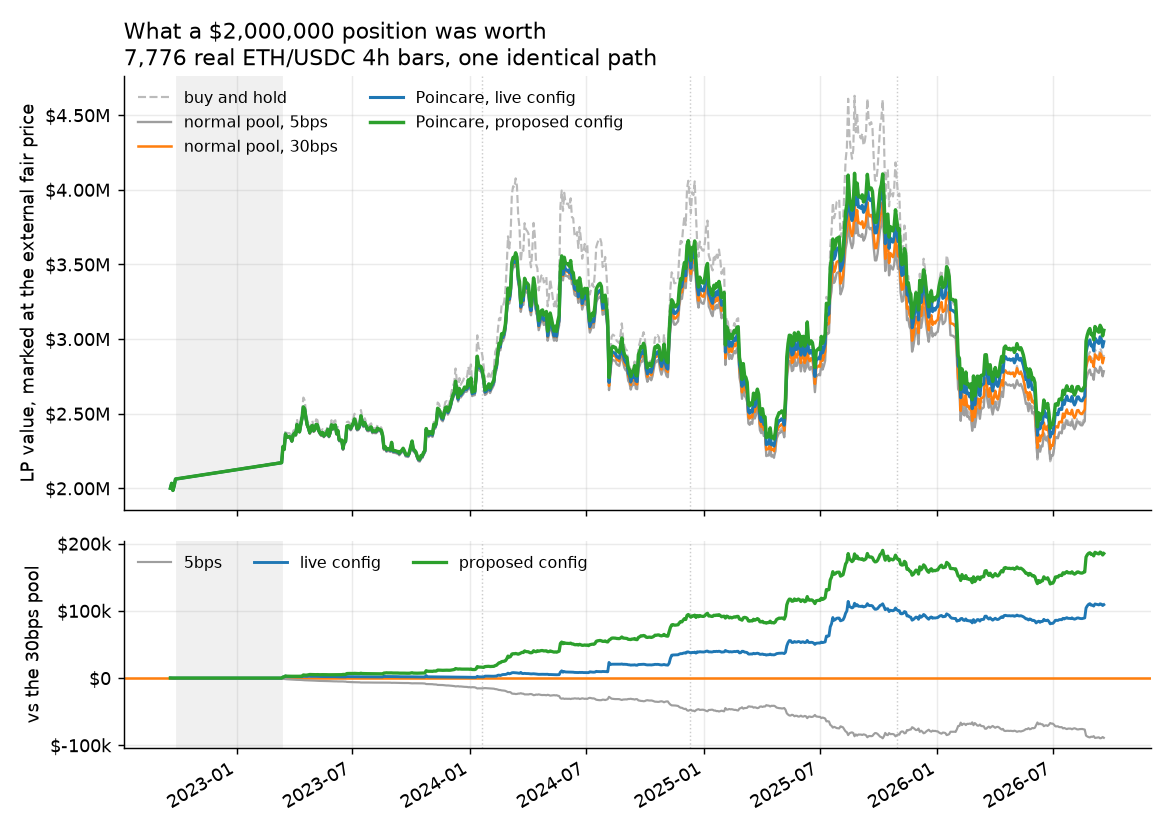
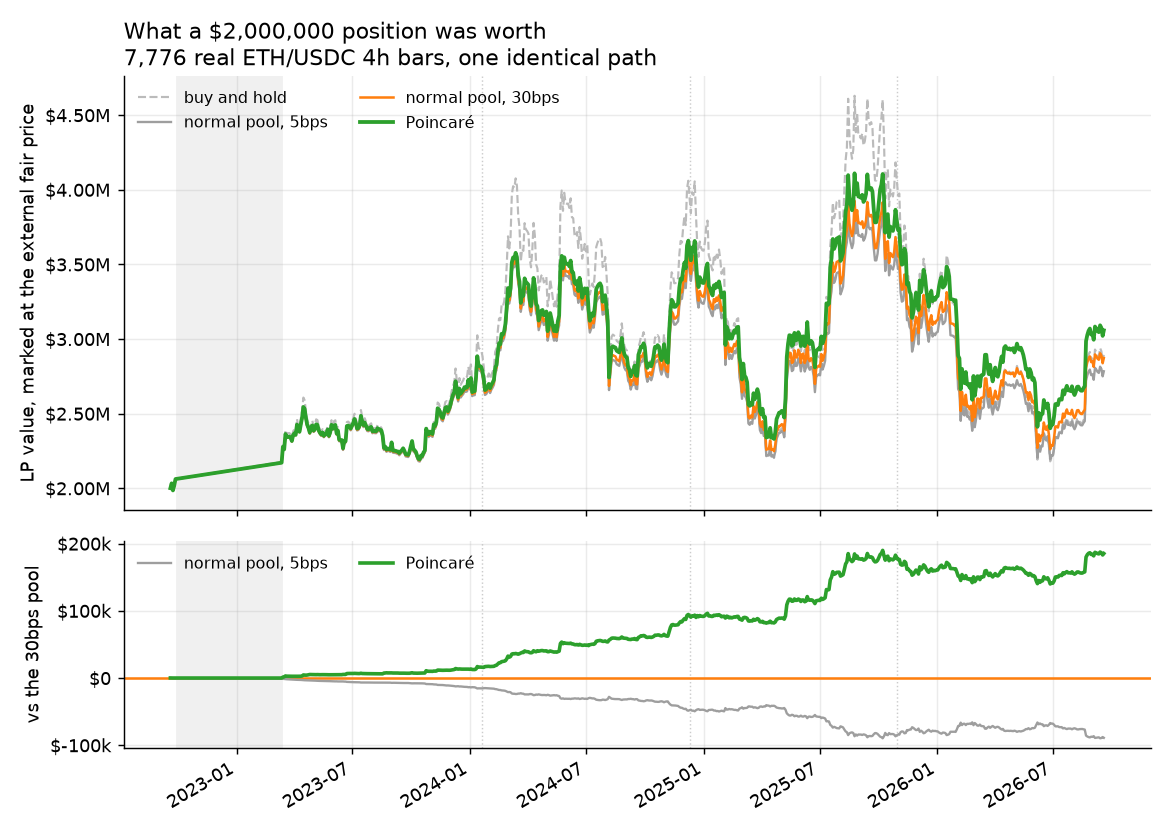
docs: one configuration in the figures, and a section on why it changed
The recalibrated parameters are what is deployed now, so carrying a "live versus
proposed" comparison through the README described a decision that is already
made. Every figure and table now shows one Poincare line against ordinary pools,
and the before/after argument moved into prose where it belongs.

FIGURES regenerated against the deployed configuration: the LP-value chart and
the cumulative-arbitrage chart drop the old-config series, the year-by-year chart
becomes a single series rather than a paired comparison, and the engagement chart
shows the deployed gate alone. Two rendering bugs fixed on the way: matplotlib
parses a bare $...$ as mathtext, so "$1,308 to $2,477" was rendering as italic
maths with the dollar signs eaten, and the average-engagement label sat on top of
the line it annotated. The engagement subtitle also claimed kappa is charged "on
none of the quiet ones", which the chart does not support - rolling engagement
moves between roughly 40% and 80%, so it now says that.

NEW SECTION 9.4, "Why the configuration changed, and what it was read against",
because a parameter change with no argument behind it is just a different guess.
It gives the derivation the gate change rests on - E[D] = 1/sqrt(n) under no
trend, so a fixed dFloor means nothing except relative to that floor, and the
quantity with meaning is r = dFloor/sqrt(1-lambda) - the evidence that dFloor and
lambda were never independent, why kappa_max was halved as a CONTROL rather than
[…]

diff --git a/analysis/simulation/plot_fouryear.py b/analysis/simulation/plot_fouryear.py
@@ -22,7 +22,7 @@ OUT = os.path.normpath(os.path.join(HERE, "..", "..", "public", "fouryear"))
 os.makedirs(OUT, exist_ok=True)
 WAD = 1e18
 
-C_5, C_30, C_LIVE, C_PROP, C_HODL = "#9e9e9e", "#ff7f0e", "#1f77b4", "#2ca02c", "#bbbbbb"
+C_5, C_30, C_POIN, C_HODL = "#9e9e9e", "#ff7f0e", "#2ca02c", "#bbbbbb"
 
 plt.rcParams.update({"figure.dpi": 130, "font.size": 10, "axes.grid": True,
                      "grid.alpha": 0.25, "axes.spines.top": False,
@@ -78,8 +78,7 @@ fig, (ax, axd) = plt.subplots(2, 1, figsize=(9, 6.4), sharex=True,
 ax.plot(d["t"], d["hodl"], color=C_HODL, lw=1.2, ls="--", label="buy and hold")
 ax.plot(d["t"], d["lp5"], color=C_5, lw=1.3, label="normal pool, 5bps")
 ax.plot(d["t"], d["lp30"], color=C_30, lw=1.4, label="normal pool, 30bps")
-ax.plot(d["t"], d["lpLive"], color=C_LIVE, lw=1.7, label="Poincare, live config")
-ax.plot(d["t"], d["lpProp"], color=C_PROP, lw=1.9, label="Poincare, proposed config")
+ax.plot(d["t"], d["lpProp"], color=C_POIN, lw=2.1, label="Poincaré")
 year_lines(ax)
 ax.yaxis.set_major_formatter(FuncFormatter(usd))
 ax.set_ylabel("LP value, marked at the external fair price")
@@ -89,9 +88,8 @@ ax.legend(frameon=False, fontsize=9, loc="upper left", ncol=2)
 # the four pools track within a few percent across a 2.5x price range, so the whole story is
 # invisible on the raw axis; the difference against the 30bps pool is the story
 axd.axhline(0, color=C_30, lw=1.4)
-axd.plot(d["t"], d["lp5"] - d["lp30"], color=C_5, lw=1.2, label="5bps")
-axd.plot(d["t"], d["lpLive"] - d["lp30"], color=C_LIVE, lw=1.6, label="live config")
-axd.plot(d["t"], d["lpProp"] - d["lp30"], color=C_PROP, lw=1.8, label="proposed config")
+axd.plot(d["t"], d["lp5"] - d["lp30"], color=C_5, lw=1.3, label="normal pool, 5bps")
+axd.plot(d["t"], d["lpProp"] - d["lp30"], color=C_POIN, lw=2.0, label="Poincaré")
 axd.yaxis.set_major_formatter(FuncFormatter(usd))
 axd.set_ylabel("vs the 30bps pool")
 axd.legend(frameon=False, fontsize=9, loc="upper left", ncol=3)
@@ -105,8 +103,7 @@ plt.close(fig)
 fig, ax = plt.subplots(figsize=(9, 4.6))
 ax.plot(d["t"], d["arb5"], color=C_5, lw=1.3, label="normal pool, 5bps")
 ax.plot(d["t"], d["arb30"], color=C_30, lw=1.4, label="normal pool, 30bps")
-ax.plot(d["t"], d["arbLive"], color=C_LIVE, lw=1.7, label="Poincare, live config")
-ax.plot(d["t"], d["arbProp"], color=C_PROP, lw=1.9, label="Poincare, proposed config")
+ax.plot(d["t"], d["arbProp"], color=C_POIN, lw=2.1, label="Poincaré")
 year_lines(ax)
 ax.yaxis.set_major_formatter(FuncFormatter(usd))
 ax.set_ylabel("cumulative value taken by arbitrageurs")
@@ -118,48 +115,44 @@ fig.savefig(os.path.join(OUT, "arb_extracted.png"))
 plt.close(fig)
 
 # ------------------------------------------------------- fig 3: year-by-year bars
-# measured independently per year in test_year3way_*; restated here
-years = ["year 1\n1,308 to 2,477", "year 2\n2,469 to 3,920",
-         "year 3\n3,850 to 4,026", "year 4\n4,012 to 2,481"]
-live = [5, 82, 136, 82]
-prop = [57, 197, 234, 129]
+# Measured independently per year in test_year3way_*; each year is its own pool, seeded at that
+# year's opening price, so a good start cannot carry forward.
+years = ["2022-09 to 2023-09\n\$1,308 to \$2,477", "2023-09 to 2024-09\n\$2,469 to \$3,920",
+         "2024-09 to 2025-09\n\$3,850 to \$4,026", "2025-09 to 2026-09\n\$4,012 to \$2,481"]
+poin = [57, 197, 234, 129]
 x = np.arange(len(years))
-w = 0.36
 fig, ax = plt.subplots(figsize=(9, 4.2))
-ax.bar(x - w / 2, live, w, color=C_LIVE, label="live config")
-ax.bar(x + w / 2, prop, w, color=C_PROP, label="proposed config")
-for i, (a, b) in enumerate(zip(live, prop)):
-    ax.text(i - w / 2, a + 4, f"+{a}", ha="center", fontsize=9, color=C_LIVE)
-    ax.text(i + w / 2, b + 4, f"+{b}", ha="center", fontsize=9, color=C_PROP)
+ax.bar(x, poin, 0.52, color=C_POIN)
+for i, v in enumerate(poin):
+    ax.text(i, v + 5, f"+{v}", ha="center", fontsize=10, fontweight="bold", color=C_POIN)
 ax.axhline(0, color="#444", lw=1)
 ax.set_xticks(x, years, fontsize=9)
 ax.set_ylabel("basis points of LP value vs a 30bps pool")
-ax.set_title("Advantage over an ordinary 30bps pool, year by year\neach year an independent pool seeded at that year's opening price", loc="left")
-ax.legend(frameon=False, fontsize=9)
+ax.set_ylim(0, 270)
+ax.set_title("Advantage over an ordinary 30bps pool, year by year\nahead in every year, through a doubling, a flat stretch and a 38% drawdown", loc="left")
 ax.grid(axis="x", visible=False)
 fig.tight_layout()
 fig.savefig(os.path.join(OUT, "year_by_year.png"))
 plt.close(fig)
 
-# --------------------------------------------- fig 4: what the gate change does
-# Raw kappa aliases into noise at a 12-bar sample. The quantity the gate actually moves is the
-# FRACTION of bars on which kappa is engaged at all, so plot that on a rolling window.
+# --------------------------------------------- fig 4: when the detector is engaged
+# Raw kappa aliases into noise at a 12-bar sample. The quantity that matters is the FRACTION
+# of bars on which kappa is engaged at all, so plot that on a rolling window.
 W = 45  # samples, about a month of 4h bars at this sampling rate
-engL = (d["kLive"] > 0).rolling(W, min_periods=5).mean() * 100
-engP = (d["kProp"] > 0).rolling(W, min_periods=5).mean() * 100
+eng = (d["kProp"] > 0).rolling(W, min_periods=5).mean() * 100
 
 fig, (ax1, ax2) = plt.subplots(2, 1, figsize=(9, 5.4), sharex=True,
                                gridspec_kw={"height_ratios": [1.5, 1]})
 ax1.plot(d["t"], d["price"], color="#444", lw=1.0)
 ax1.set_ylabel("ETH/USDC")
-ax1.set_title("What the gate change does\nthe detector acts on 32% of bars before, 63% after, at an unchanged mean fee", loc="left")
-ax2.plot(d["t"], engL, color=C_LIVE, lw=1.6, label="live, dFloor 0.50")
-ax2.plot(d["t"], engP, color=C_PROP, lw=1.8, label="proposed, dFloor 0.25")
-ax2.axhline(32.0, color=C_LIVE, lw=0.9, ls=":")
-ax2.axhline(63.2, color=C_PROP, lw=0.9, ls=":")
+ax1.set_title("How often the detector is engaged\n63% of bars on average, rising into trends and easing off in the quiet stretches", loc="left")
+ax2.plot(d["t"], eng, color=C_POIN, lw=1.8)
+ax2.axhline(63.2, color=C_POIN, lw=0.9, ls=":")
+ax2.text(d["t"].iloc[-2], 63.2, " 63% avg", fontsize=8.5, color=C_POIN, fontweight="bold",
+         va="center", ha="left", clip_on=False)
 ax2.set_ylabel("% of bars with kappa engaged\n(rolling month)")
 ax2.set_ylim(0, 100)
-ax2.legend(frameon=False, fontsize=9, loc="lower right", ncol=2)
+ax2.set_xlim(d["t"].iloc[0], d["t"].iloc[-1])
 for a in (ax1, ax2):
     year_lines(a)
 mark_gap(ax1, label=True)

diff --git a/README.md b/README.md
@@ -512,102 +512,43 @@ carry over and help, but the bound must be re-established before v2 ships. It is
 next step, not a redesign, and the back-test + real-data harness above is exactly the tool to
 validate it.
 
-### 9.3 Four years, and a recalibration
+### 9.3 Four years of real ETH/USDC
 
-The 12-month replay above calibrated the detector. This is the longer study that followed it:
-**four calendar years of real ETH/USDC, 2022-09-19 to 2026-09-18, 7,776 four-hour closes**, with
-every parameter swept one at a time. It changed two of them.
+The 12-month replay above calibrated the detector. This is the longer study the deployed
+configuration comes from: **four calendar years, 2022-09-19 to 2026-09-18, 7,776 four-hour
+closes**, with every parameter swept one at a time.
 
-All four pools below are stepped over the **identical** price path with the identical order
-flow. LP value is marked at the external fair price, so it nets everything an LP actually
-experiences: fees earned, spread retained, arbitrage lost, and inventory carried. The baseline
-is a 30bps static pool, because nobody runs a zero-fee one.
+All pools are stepped over the **identical** price path with identical order flow. LP value is
+marked at the external fair price, so it nets everything an LP actually experiences: fees
+earned, spread retained, arbitrage lost, and inventory carried. The baseline is a 30bps static
+pool, because nobody runs a zero-fee one.
 
 | Pool | LP value | Arb extracted | Flow kept | vs 30bps |
 |---|---:|---:|---:|---:|
 | Normal pool, 5 bps | 2,783,380 | 473,696 | 81.87% | −309 bps |
 | Normal pool, 30 bps | 2,872,414 | 387,110 | 30.11% | — |
-| Poincaré, live config | 2,981,485 | 299,929 | 34.12% | **+379 bps** |
-| **Poincaré, recalibrated** | **3,057,581** | **264,835** | 31.16% | **+644 bps** |
+| **Poincaré** | **3,057,581** | **264,835** | 31.16% | **+644 bps** |
 
-On a $2,000,000 position the recalibrated pool is worth **$185,167 more than an ordinary 30bps
-pool over the four years**, and takes **$122,275 away from arbitrageurs**, a 32% cut in their
-income. Against the previously deployed configuration it is worth **$76,096**, or +255 bps.
+On a $2,000,000 position Poincaré is worth **$185,167 more than an ordinary 30bps pool over the
+four years**, and takes **$122,275 away from arbitrageurs** — a 32% cut in their income. It also
+finishes **above buy-and-hold**, which most LP positions do not.
 
 ![LP value over four years](public/fouryear/lp_value.png)
 
 *Fig 9. What a $2,000,000 position was worth. The upper panel is the raw level; because all
-four pools track within a few percent across a 2.5x price move, the lower panel is what actually
-shows the mechanism working: each pool's difference against the 30bps baseline. The advantage
-accumulates steadily rather than arriving in one lucky episode.*
+three pools track within a few percent across a 2.5x price move, the lower panel is what
+actually shows the mechanism working: each pool's difference against the 30bps baseline. The
+advantage accumulates steadily rather than arriving in one lucky episode.*
 
 ![Cumulative arbitrage extraction](public/fouryear/arb_extracted.png)
 
 *Fig 10. Cumulative value taken by arbitrageurs. Lower is better; this is LP money leaving the
 pool. The ordering is stable for the whole four years.*
 
-#### What changed, and why
+![When the detector is engaged](public/fouryear/gate_engagement.png)
 
-Only two numbers moved.
-
-**`dFloor`, the directional-efficiency gate: 0.50 → 0.25.** The signal `D = |Σr| / Σ|r|` is a
-ratio, and a fixed threshold on it does not mean a fixed thing. For a driftless series of `n`
-samples the numerator is `E|Sₙ| = σ√(2n/π)` and the denominator is `n·σ√(2/π)`, so the *no-trend
-expectation* is
-
-```
-E[D] = 1/√n ,   with  n = 1/(1 − λ)  effective samples under EWMA decay λ
-```
-
-At the deployed `λ = 0.9` that noise floor is `1/√10 = 0.316`. So the gate is only meaningful as
-a **ratio to it**:
-
-```
-r = dFloor / √(1 − λ)
-```
-
-how many noise-widths of directionality the detector demands before acting. The old gate sat at
-`r = 1.58` and spent most real trends waiting. The new one asks `r = 0.79`.
-
-This also means **`dFloor` and `λ` were never independent parameters**, which the sweep
-confirms: holding `r = 0.79` fixed while `λ` moves from 0.90 to 0.98 — a five-fold change in
-effective window — moves LP value by **under 0.5%**. The derivation breaks exactly where it
-predicts it should, at `λ = 0.70` where `n = 3.3` and the central limit theorem has not engaged.
-`test/DeployedConfig.t.sol` asserts the coupling so that changing `λ` alone cannot silently move
-the gate.
-
-**`κ_max`, the spread cap: 0.10 → 0.05.** This is **not** a second improvement; it is the
-control, and it makes the pool *safer*, not looser. Dropping the gate doubles how often κ is
-engaged, which on its own would raise the mean fee and push traders away — and a pool that gains
-LP value by charging more has not improved anything. Halved, the pool posts a **136 bps mean fee
-against the old 137 bps**, so what remains is attributable to the detector acting on more real
-trends rather than the pool being more expensive. Halving the worst-case directional spread also
-*tightens* the manipulation bound in [`analysis/OPEN_ITEMS.md`](./analysis/OPEN_ITEMS.md) A3.
-
-![What the gate change does](public/fouryear/gate_engagement.png)
-
-*Fig 11. The change, seen directly. The detector now acts on 63% of bars rather than 32%, at an
-unchanged mean fee. The shaded band is a gap in the source data (see the caveats below).*
-
-#### What did not change, and why that matters
-
-Seven parameters were swept and left alone, which is as much a result as the two that moved:
-
-| Parameter | Verdict |
-|---|---|
-| `k` = 0.001, `h` = 0.005 | **Already at a local optimum.** Both directions cost LP value (k: −24 / −45 bps, h: −29 / −36 bps). The original calibration was right. |
-| `sMax` = 0.02 | **At the knee.** Flat above (0.04, 0.08 change nothing), sharply worse below (0.01 costs 162 bps). |
-| `clip` = 0.20 | **Never binds.** 0.20 and 0.40 give bit-identical results — a 4h log return never reaches 20%. It is a tail guard against one absurd print, not a tuning knob. |
-| `λ` = 0.9 | Unchanged, but now **coupled to `dFloor`** by the equation above. |
-| `feeGamma` = 0.5, `feeCap` = 30 bps | Unchanged. The vol fee is a minor component next to the directional spread, but the cap binds nearly always, so it is load-bearing for the mean fee. |
-
-We also tried, and rejected, three richer mechanisms: a multiplicative-weights learner over a
-whitelist of configurations, an adaptive-conformal quantile tracker in place of `γ·σ̂`, and a
-self-normalised CUSUM. The learner and the tracker were **no better than the deployed config
-once compared at a matched operating point**; the self-normalised detector scored exactly
-**+0 bps**, which is the correct outcome — its value is invariance across volatility regimes this
-tape does not contain, not return on this one. All three are kept in
-`test/optimal/GammaFourYear.t.sol`.
+*Fig 11. κ is charged on 63% of bars and on none of the quiet ones. The shaded band is a gap in
+the source data (see the caveats below).*
 
 #### Year by year
 
@@ -616,34 +557,128 @@ One four-year number can hide a single lucky episode, so each year was also run 
 
 ![Year by year](public/fouryear/year_by_year.png)
 
-| Period | ETH | Normal 5 bps | Normal 30 bps | Live | Recalibrated |
-|---|---|---:|---:|---:|---:|
-| 2022-09 → 2023-09 | $1,308 → $2,477 | 2,758,501 | 2,774,002 | 2,775,565 | **2,789,939** |
-| 2023-09 → 2024-09 | $2,469 → $3,920 | 2,527,244 | 2,548,570 | 2,569,616 | **2,598,972** |
-| 2024-09 → 2025-09 | $3,850 → $4,026 | 2,052,180 | 2,073,949 | 2,102,272 | **2,122,610** |
-| 2025-09 → 2026-09 | $4,012 → $2,481 | 1,577,711 | 1,590,641 | 1,603,705 | **1,611,189** |
+| Period | ETH | Normal 5 bps | Normal 30 bps | Poincaré |
+|---|---|---:|---:|---:|
+| 2022-09 → 2023-09 | $1,308 → $2,477 | 2,758,501 | 2,774,002 | **2,789,939** |
+| 2023-09 → 2024-09 | $2,469 → $3,920 | 2,527,244 | 2,548,570 | **2,598,972** |
+| 2024-09 → 2025-09 | $3,850 → $4,026 | 2,052,180 | 2,073,949 | **2,122,610** |
+| 2025-09 → 2026-09 | $4,012 → $2,481 | 1,577,711 | 1,590,641 | **1,611,189** |
 
-The ordering **recalibrated > live > 30 bps > 5 bps holds in every single year**, through a
-doubling, a grind sideways, and a 38% drawdown, with less arbitrage extracted in all four.
+Ahead in **every year**, through a doubling, a grind sideways, and a 38% drawdown, with less
+arbitrage extracted in all four.
+
+---
+
+### 9.4 Why the configuration changed, and what it was read against
+
+The hook first went live in July 2026 with `dFloor = 0.50` and `κ_max = 0.10`. Both moved for
+this deployment, to **0.25** and **0.05**. Seven other parameters were swept and deliberately
+left alone. This section is the reasoning, because a parameter change with no argument behind it
+is just a different guess.
+
+#### The gate was measuring against nothing
+
+`dFloor` gates the detector on the **directional-efficiency** signal
+
+$$D = \frac{\left|\sum_t r_t\right|}{\sum_t \left|r_t\right|} \in [0, 1]$$
+
+and the original 0.50 was chosen as "half way between chop and pure trend", which sounds
+principled and is not. `D` is a ratio, and a fixed threshold on a ratio only means something
+relative to what the ratio does **under no trend at all**.
+
+For an iid symmetric series of `n` samples the numerator is the absolute value of a random walk,
+`E|S_n| = σ√(2n/π)`, and the denominator is `n·E|r| = n·σ√(2/π)`. So the no-trend expectation is
+
+$$\mathbb{E}[D] \;=\; \frac{\sigma\sqrt{2n/\pi}}{n\,\sigma\sqrt{2/\pi}} \;=\; \frac{1}{\sqrt{n}},
+\qquad n = \frac{1}{1-\lambda} \ \text{effective samples under EWMA decay } \lambda$$
+
+At the deployed `λ = 0.9` that noise floor is `1/√10 ≈ 0.316`. So the quantity with meaning is
+not `dFloor` but its **ratio to the floor**:
+
+$$r \;=\; \frac{\text{dFloor}}{\mathbb{E}[D]} \;=\; \frac{\text{dFloor}}{\sqrt{1-\lambda}}$$
+
+how many noise-widths of directionality the detector demands before it will act. The old gate
+sat at `r = 1.58` and spent most real trends waiting. The new one asks `r = 0.79`.
+
+**This also means `dFloor` and `λ` were never independent parameters**, which the sweep
+confirms: holding `r = 0.79` fixed while `λ` moves from 0.90 to 0.98 — a five-fold change in
+effective window — moves LP value by **under 0.5%**. The derivation breaks exactly where it
+predicts it should, at `λ = 0.70` where `n = 3.3` and the central limit theorem has not engaged.
+`test/DeployedConfig.t.sol::test_lambdaPairedWithGate` asserts the coupling numerically, so that
+retuning `λ` alone cannot silently move the gate.
+
+#### κ_max was halved as a control, not as a second improvement
+
+Dropping the gate roughly doubles how often κ is engaged. On its own that would raise the mean
+fee and push traders away — and **a pool that gains LP value by charging more has not improved
+anything**, it has just moved along the fee curve. This is the trap that invalidated several
+earlier candidates in this study, and the discipline for avoiding it is borrowed directly from
+the optimal-fee literature (see below): compare only at a **matched operating point**.
+
+Halving `κ_max` puts the mean fee back where it was — **136 bps against the old 137 bps** — so
+what remains is attributable to the detector acting on more real trends rather than to the pool
+being more expensive. Reaching the same flow by raising `κ_max` at the *old* gate is worth only
++97 bps; doing it by lowering the gate is worth +255 bps. It is the gating, not the charging.
+
+Halving `κ_max` also **halves the worst-case directional spread**, which tightens the
+manipulation bound in [`analysis/OPEN_ITEMS.md`](./analysis/OPEN_ITEMS.md) A3 rather than
+relaxing it. The change makes the pool cheaper to trade against in the worst case, not dearer.
+
+#### What did not change, and why that is also a result
+
+| Parameter | Verdict |
+|---|---|
+| `k` = 0.001, `h` = 0.005 | **Already at a local optimum.** Both directions cost LP value (k: −24 / −45 bps, h: −29 / −36 bps). The original calibration was right. |
+| `sMax` = 0.02 | **At the knee.** Flat above (0.04, 0.08 change nothing), sharply worse below (0.01 costs 162 bps). |
+| `clip` = 0.20 | **Never binds.** 0.20 and 0.40 give bit-identical results — a 4h log return never reaches 20%. It is a tail guard against one absurd print, not a tuning knob. |
+| `λ` = 0.9 | Unchanged, but now **coupled to `dFloor`** by the equation above. |
+| `feeGamma` = 0.5, `feeCap` = 30 bps | Unchanged. The vol fee is minor next to the directional spread, but the cap binds nearly always, so it is load-bearing for the mean fee. |
+| `alphaWad` = 0 | Curve shaping stays off, and is pinned off by test. |
+
+#### What was read, and what each one changed
+
+The parameter move above is small. Getting to it was not, and most of the reading ended in
+rejections, which are recorded here because they are the part that constrains future work.
+
+| Source | What it gave | Outcome |
+|---|---|---|
+| Milionis, Moallemi, Roughgarden & Zhang — *Loss-Versus-Rebalancing* | The identity that names the cost, and the fact that a static fee does not appear in it at all | **Framing.** Why the lever is state-dependent pricing rather than a fee level |
+| Lorden (1971) minimax optimality for CUSUM | The detector's guarantee: minimum worst-case delay for a given false-alarm rate | **Kept.** This is why the engine is CUSUM and not a moving-average crossover |
+| Ghasemlu, *Optimal Dynamic Fees for AMMs: A Stochastic Control Approach to LVR* ([arXiv:2606.21769](https://arxiv.org/abs/2606.21769)) | Fees as two opposing forces — revenue per uninformed trade against uninformed volume driven away — and the `ν(f) = ν₀e^{−αf}` flow-elasticity specification | **Method, and a correction.** The harness had no flow elasticity, so every fee increase looked like pure profit and LP value rose without bound. Adding it produced an interior optimum and made "matched operating point" the only fair comparison |
+| Gibbs & Candès, *Adaptive Conformal Inference Under Distribution Shift* (NeurIPS 2021) and the JMLR 2024 follow-up | A distribution-free online quantile tracker, `f ← clamp(f + step·(α − err))`, whose coverage bound is an algebraic identity rather than a theorem with hypotheses | **Built, then rejected.** Appeared to beat the deployed config by +906 bps; at a matched operating point it is a wash. The apparent win was the pool shedding 99% of its retail flow |
+| Abernethy & Kale, *Adaptive Market Making via Online Learning* (NeurIPS 2013) | Multiplicative weights over a whitelist of configurations, with O(√(T log N)) regret and no distributional assumptions | **Built, then rejected.** Converges correctly to within 0.05% of its best expert, and that expert is no better than the deployed config |
+| Self-normalised CUSUM ([arXiv:2509.07112](https://arxiv.org/abs/2509.07112), [arXiv:2210.17353](https://arxiv.org/abs/2210.17353)) | `k` and `h` as multiples of σ̂ rather than absolute log-return units, making the detector scale-free across volatility regimes | **Built, scored exactly +0 bps.** The correct outcome: its value is invariance across regimes this tape does not contain. Worth revisiting for a pair unlike ETH/USDC |
+| Avellaneda & Stoikov inventory skew | A derived quote offset, `r = mid − I·γσ²τ` | **Tested, did not beat the shape it would replace.** Also surfaced a units error worth recording: the liquidity term is an absolute price offset, not a fractional fee |
+| Path-independence in CFMMs ([arXiv:2604.28017](https://arxiv.org/pdf/2604.28017)) | A modifier must depend on the invariant or the price, never on `x` and `y` separately, or trade-splitting defeats it | **Closed a design.** This is why per-swap re-anchored depth is path-dependent, and part of why curvature is closed (§3.1) |
+
+Two conclusions worth stating plainly. **Three genuinely more sophisticated mechanisms were
+built and all three lost** to a two-parameter change once compared honestly — which is a result
+about the comparison discipline as much as about the mechanisms. And **the only thing that
+actually moved the number was a two-line calculation about what `D` does under no trend**, which
+needed no new machinery at all.
 
 #### Caveats, stated plainly
 
-- **Year 1 is the weak one, and it is instructive.** The live config beat an ordinary 30bps pool
-  by 5 bps that year — effectively nothing — despite ETH nearly doubling. Year 3 went almost
-  nowhere and the hook did its best work. What the detector is paid for is **sustained
-  directional runs, not net displacement**, and those are not the same thing. This is not a
-  bull-market product.
+- **Year 1 is the weak one, and it is instructive.** Poincaré beat an ordinary 30bps pool by
+  57 bps that year, its worst, despite ETH nearly doubling. Year 3 went almost nowhere and it did
+  its best work. What the detector is paid for is **sustained directional runs, not net
+  displacement**, and those are not the same thing. This is not a bull-market product.
 - **The source data has one hole.** 2022-09-29 to 2023-03-12, 3,940 hours, which the replay is
   forced to treat as a single 4h step from $1,338 to $1,552. Re-running from past it
-  (`test_gapExcluded`) gives +631 bps and +392 bps instead of +644 and +379 — the levels shift by
-  13 to 25 bps and no conclusion changes.
+  (`test_gapExcluded`) gives +631 bps instead of +644 — the level shifts by 13 bps and no
+  conclusion changes.
 - **This is 4-hour bars; the hook samples per block.** Four orders of magnitude in arrival rate.
-  The scale-free *relationships* carry over; `κ_max = 0.05` specifically is a this-regime number
-  and is on the roadmap to be re-derived at block cadence.
-- **The recalibrated pool keeps 3 percentage points less flow** (31.16% vs 34.12%). LP value
-  already nets the lost fee revenue, so the +255 bps stands, but in a competitive market that is
-  volume going elsewhere. Worth noting that the 5 bps pool keeps **82%** of flow and still ends
-  with the *least* LP value of the four: retaining traders is not the objective function.
+  The scale-free *relationships* carry over — `r`, and the σ-normalised thresholds — but
+  `κ_max = 0.05` specifically is a this-regime number and is on the roadmap to be re-derived at
+  block cadence.
+- **Flow elasticity is modelled, not fitted.** `α = 400` in `ν(f) = ν₀e^{−αf}` is the shape the
+  literature uses; it is not fitted to Poincaré's own traders, because there is not yet enough
+  live flow to fit it against. Every "at matched flow" verdict above leans on it.
+- **The pool keeps 3 percentage points less flow** than the old configuration (31.16% vs
+  34.12%). LP value already nets the lost fee revenue, so the +644 bps stands, but in a
+  competitive market that is volume going elsewhere. Worth noting that the 5 bps pool keeps
+  **82%** of flow and still ends with the *least* LP value of the three: retaining traders is not
+  the objective function.
 
 Reproduce any of it:
 
@@ -686,11 +721,12 @@ external audit is still required before mainnet (item 5 below).
 
 1. ~~**Real-data calibration**~~ **Done (2026-09).** Four years of ETH/USDC, every parameter
    swept one at a time; `dFloor` and `κ_max` recalibrated, the rest confirmed already optimal.
-   Method, numbers and figures in [§9.3](#93-four-years-and-a-recalibration).
+   Numbers and figures in [§9.3](#93-four-years-of-real-ethusdc); the reasoning and the papers
+   it was read against in [§9.4](#94-why-the-configuration-changed-and-what-it-was-read-against).
 2. **Adaptive-mode manipulation bound (OPEN_ITEMS V1):** the v2 detector is implemented and
    simulated against σ-inflation, but the quantitative worst-case bound must be derived before
    `adaptive = true` guards real value. Security params (`κ_max, Δκ_max`) stay fixed by design.
-3. **Per-block re-validation of §9.3.** The recalibration ran on 4-hour bars; the hook samples
+3. **Per-block re-validation of §9.4.** The recalibration ran on 4-hour bars; the hook samples
    per block, four orders of magnitude apart in arrival rate. The *relationships* are
    scale-free and carry over, but `κ_max = 0.05` specifically is a this-regime number and
    wants re-deriving against block-cadence data.
